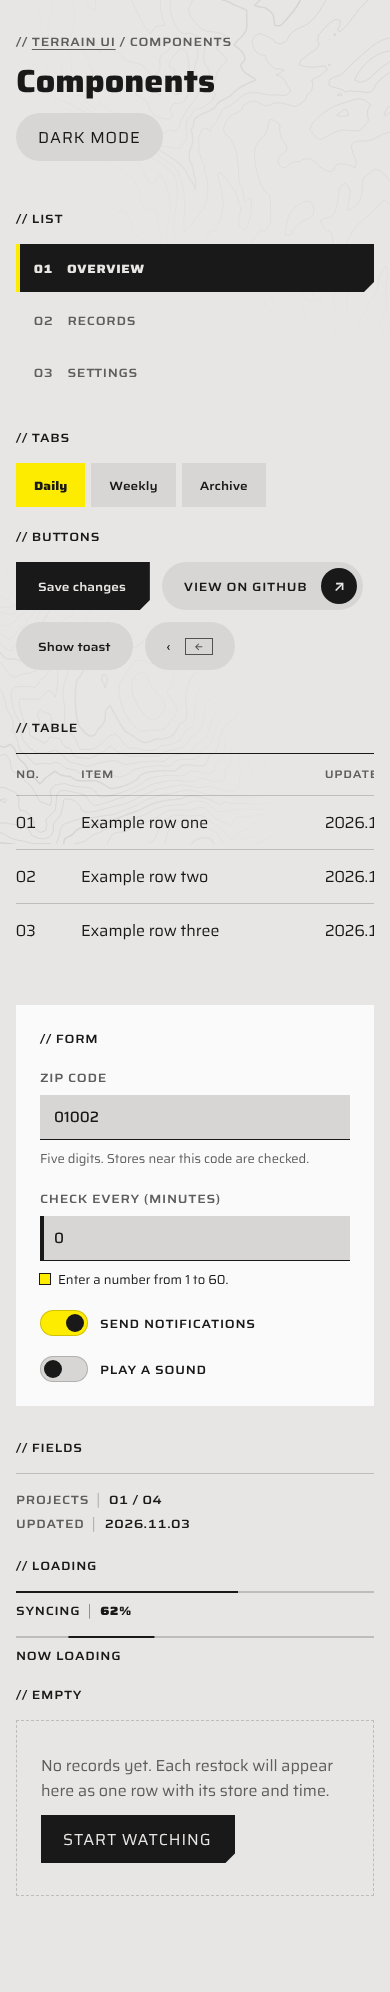
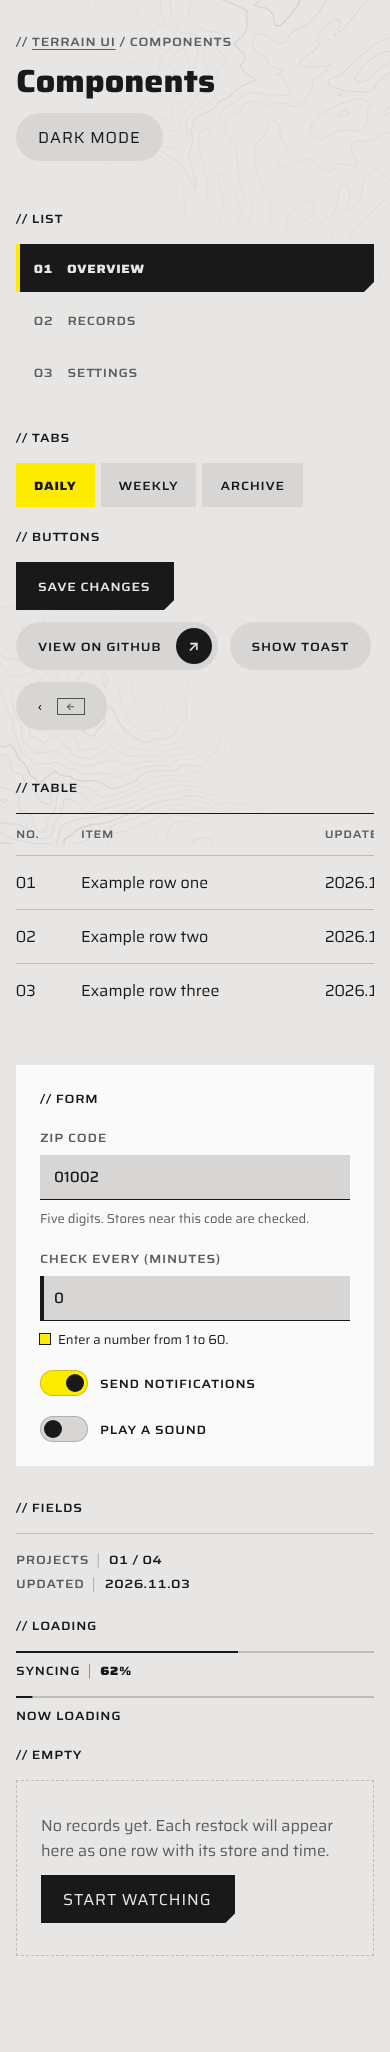
Add files via upload

diff --git a/assets/terrain.css b/assets/terrain.css
@@ -175,6 +175,10 @@
 .tu-switch input:checked + .tu-switch__track::after { transform: translateX(22px); }
 .tu-switch input:focus-visible + .tu-switch__track { outline: 2px solid var(--tu-ink); outline-offset: 3px; }
 
+/* Browsers reset text-transform on <button>; let buttons take the label style from their parent.
+   :where() keeps this at zero specificity, so a .tu-label class on the button itself still wins. */
+:where(button.tu-btn, button.tu-tab) { text-transform: inherit; letter-spacing: inherit; }
+
 /* ---------- dialog ---------- */
 .tu-dialog {
   width: min(480px, calc(100vw - 32px)); padding: 0; border: 0; background: var(--tu-panel); color: var(--tu-ink);
@@ -184,6 +188,7 @@
 .tu-dialog__body { display: grid; gap: 16px; padding: 24px; }
 .tu-dialog__title { margin: 0; font-size: 24px; font-weight: 800; font-stretch: 112%; }
 .tu-dialog__actions { display: flex; flex-wrap: wrap; justify-content: flex-end; gap: 12px; padding: 16px 24px; background: var(--tu-gray); }
+.tu-dialog__actions .tu-btn--pill { background: var(--tu-panel); box-shadow: inset 0 0 0 1px var(--tu-line); }
 @keyframes tu-sharpen { from { opacity: 0; filter: blur(8px); } to { opacity: 1; filter: none; } }
 
 /* ---------- toast ---------- */

diff --git a/references/research.md b/references/research.md
@@ -87,6 +87,10 @@ Letter spacing: the official site's wide labels (Novecento Sans Wide) compute to
 | 1 | Same | A literal `</script>` in a `contours.js` comment cut the script short when inlined | Rewrote the comment; added the "Delivering a single HTML file" section |
 | 1 | Same | The page included facts from the project README that the prompt did not give. They matched the README, but the support scope was stated more firmly than the README does | Extended rule 5 to text: use only given information or project docs, keep their scope, and use a placeholder when there is no source |
 | 1 | Same | The footer separated fields with a middle dot `·` | Not changed; the rules already say to use a vertical bar. Watching for a repeat |
+| 2 | A Chrome extension's Status, History and Settings page, a Workbench page, built by Claude | Page type, list selection, tabs, pill buttons, table, form, switch, dialog and toast all applied without overrides | None needed |
+| 2 | Same | `<button>` elements did not take the uppercase label style, because browsers reset `text-transform` on buttons; links styled as buttons did | Added a zero-specificity rule so buttons inherit the label style |
+| 2 | Same | In the dialog footer, a pill button had the same gray as the footer and read as plain text | Pill buttons in the dialog footer use the panel color with a thin outline |
+| 2 | Same | No middle dots this round | Footer issue from round 1 did not repeat |
 
 ## 7. How this differs from a similar skill
 
